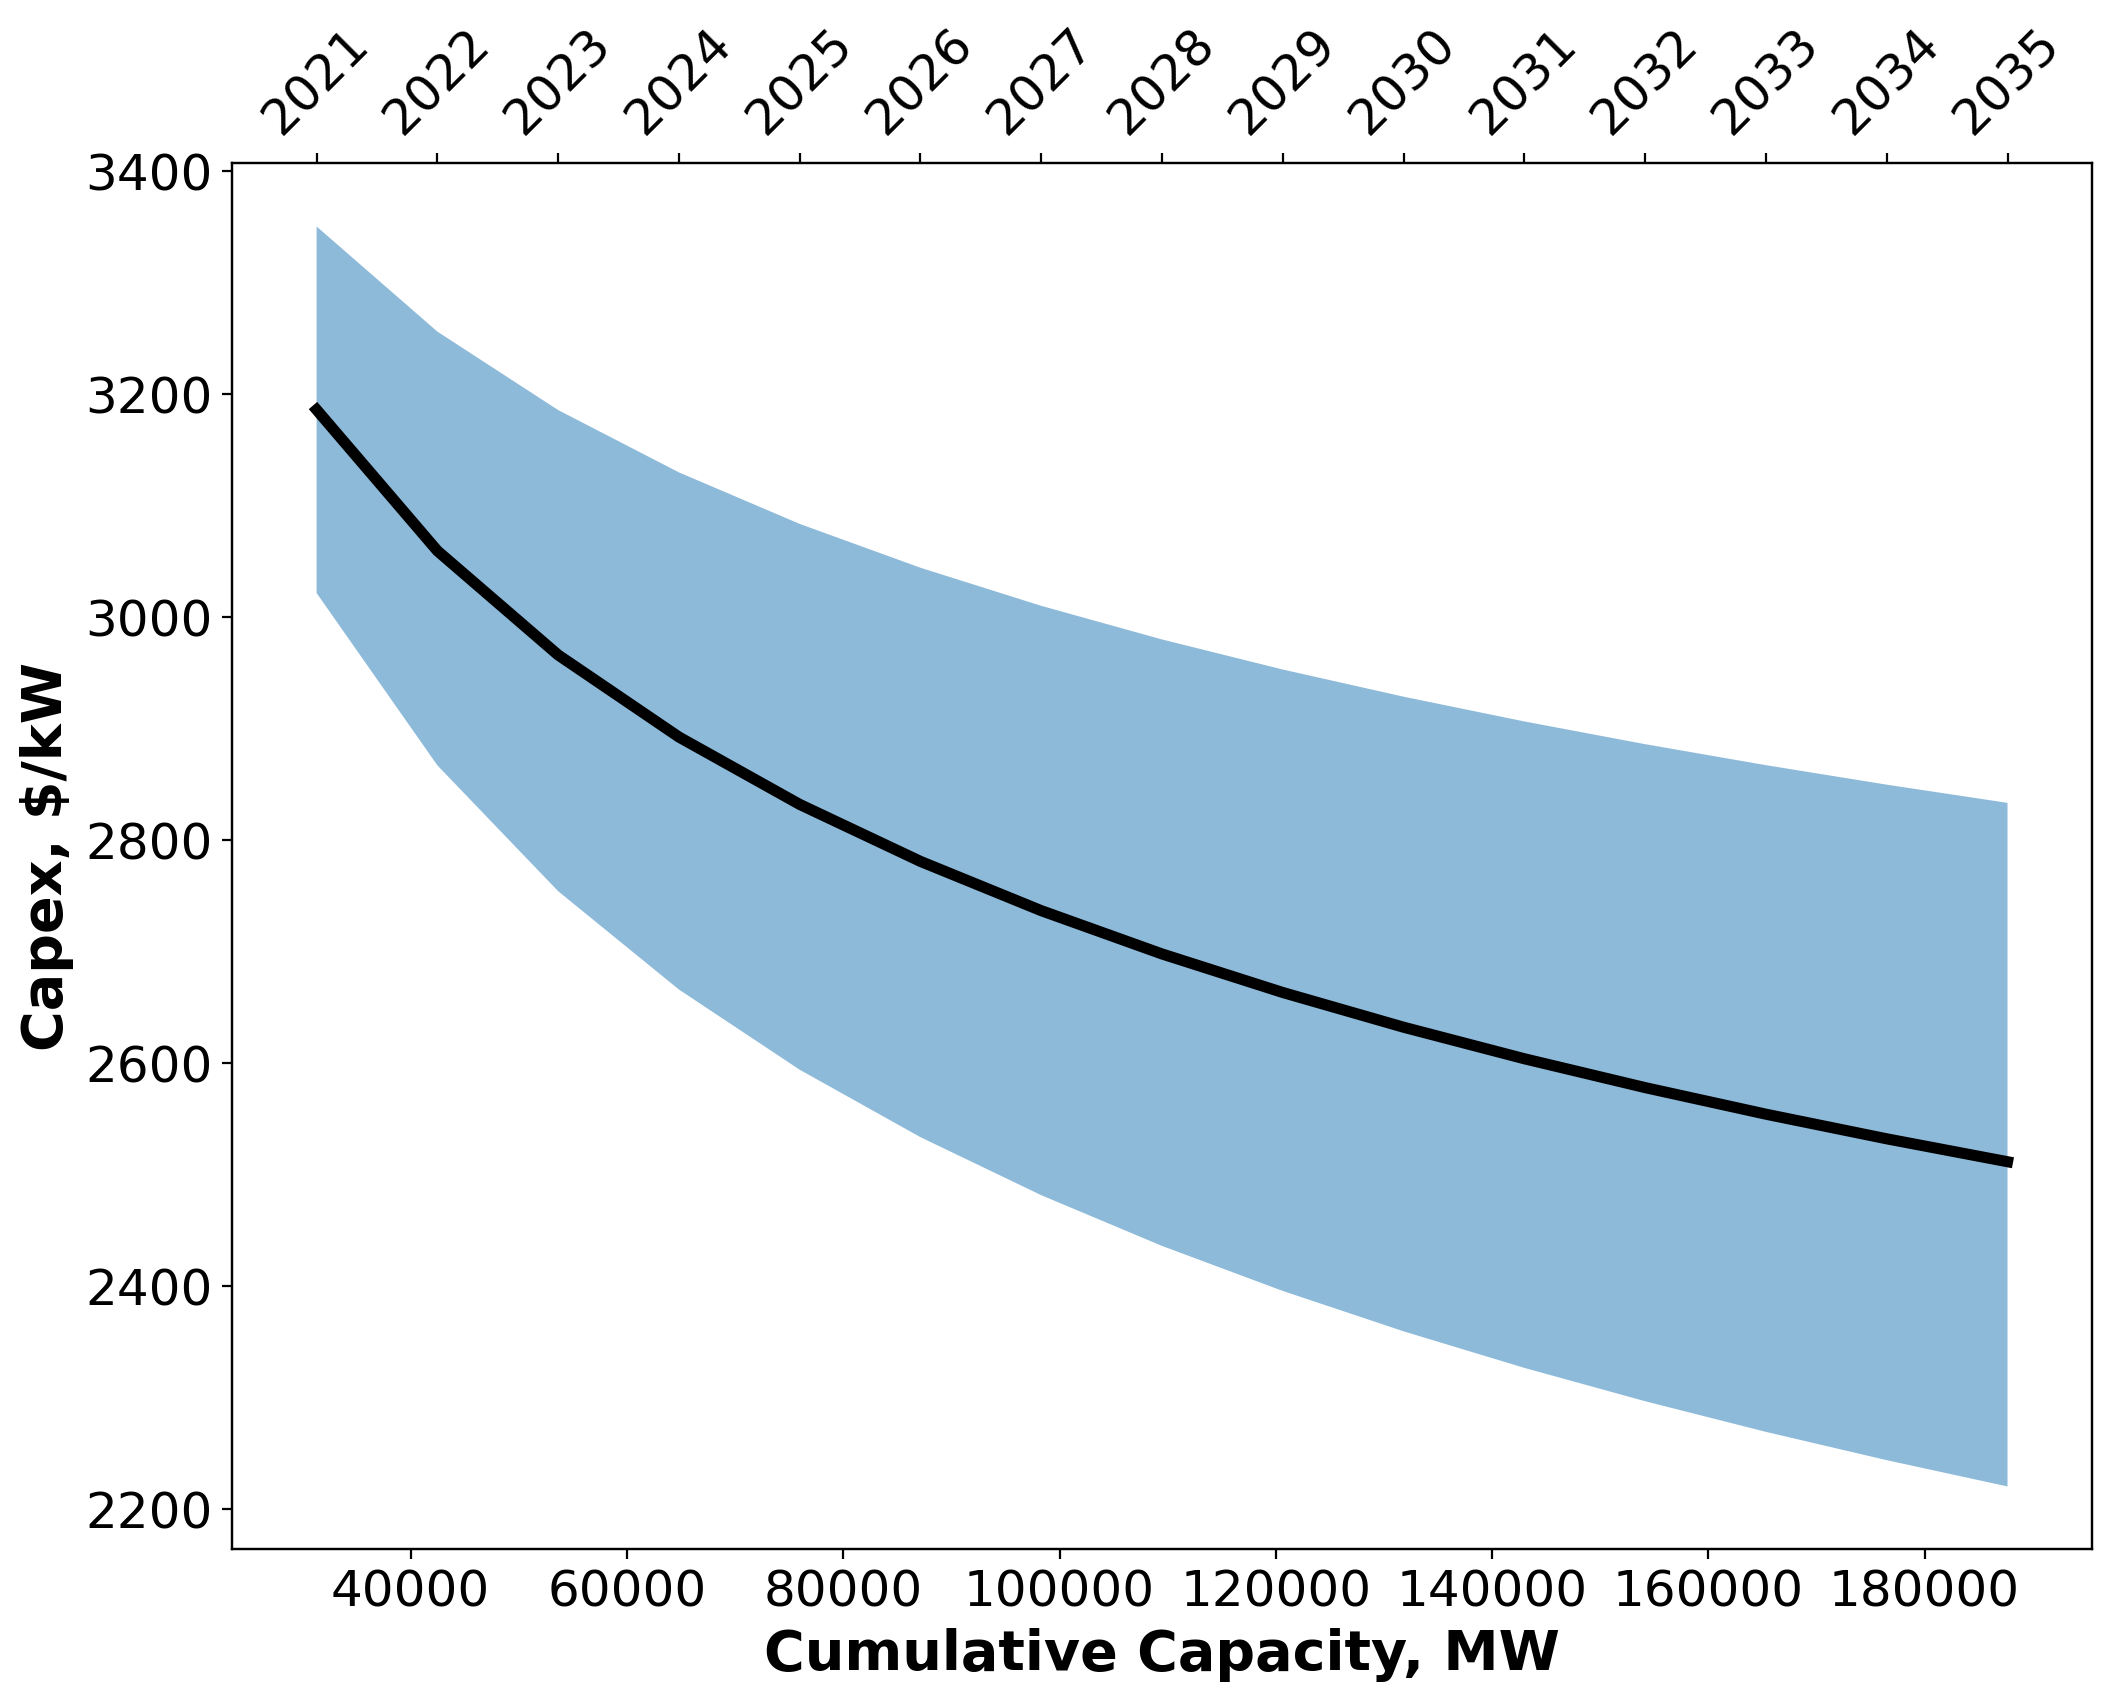
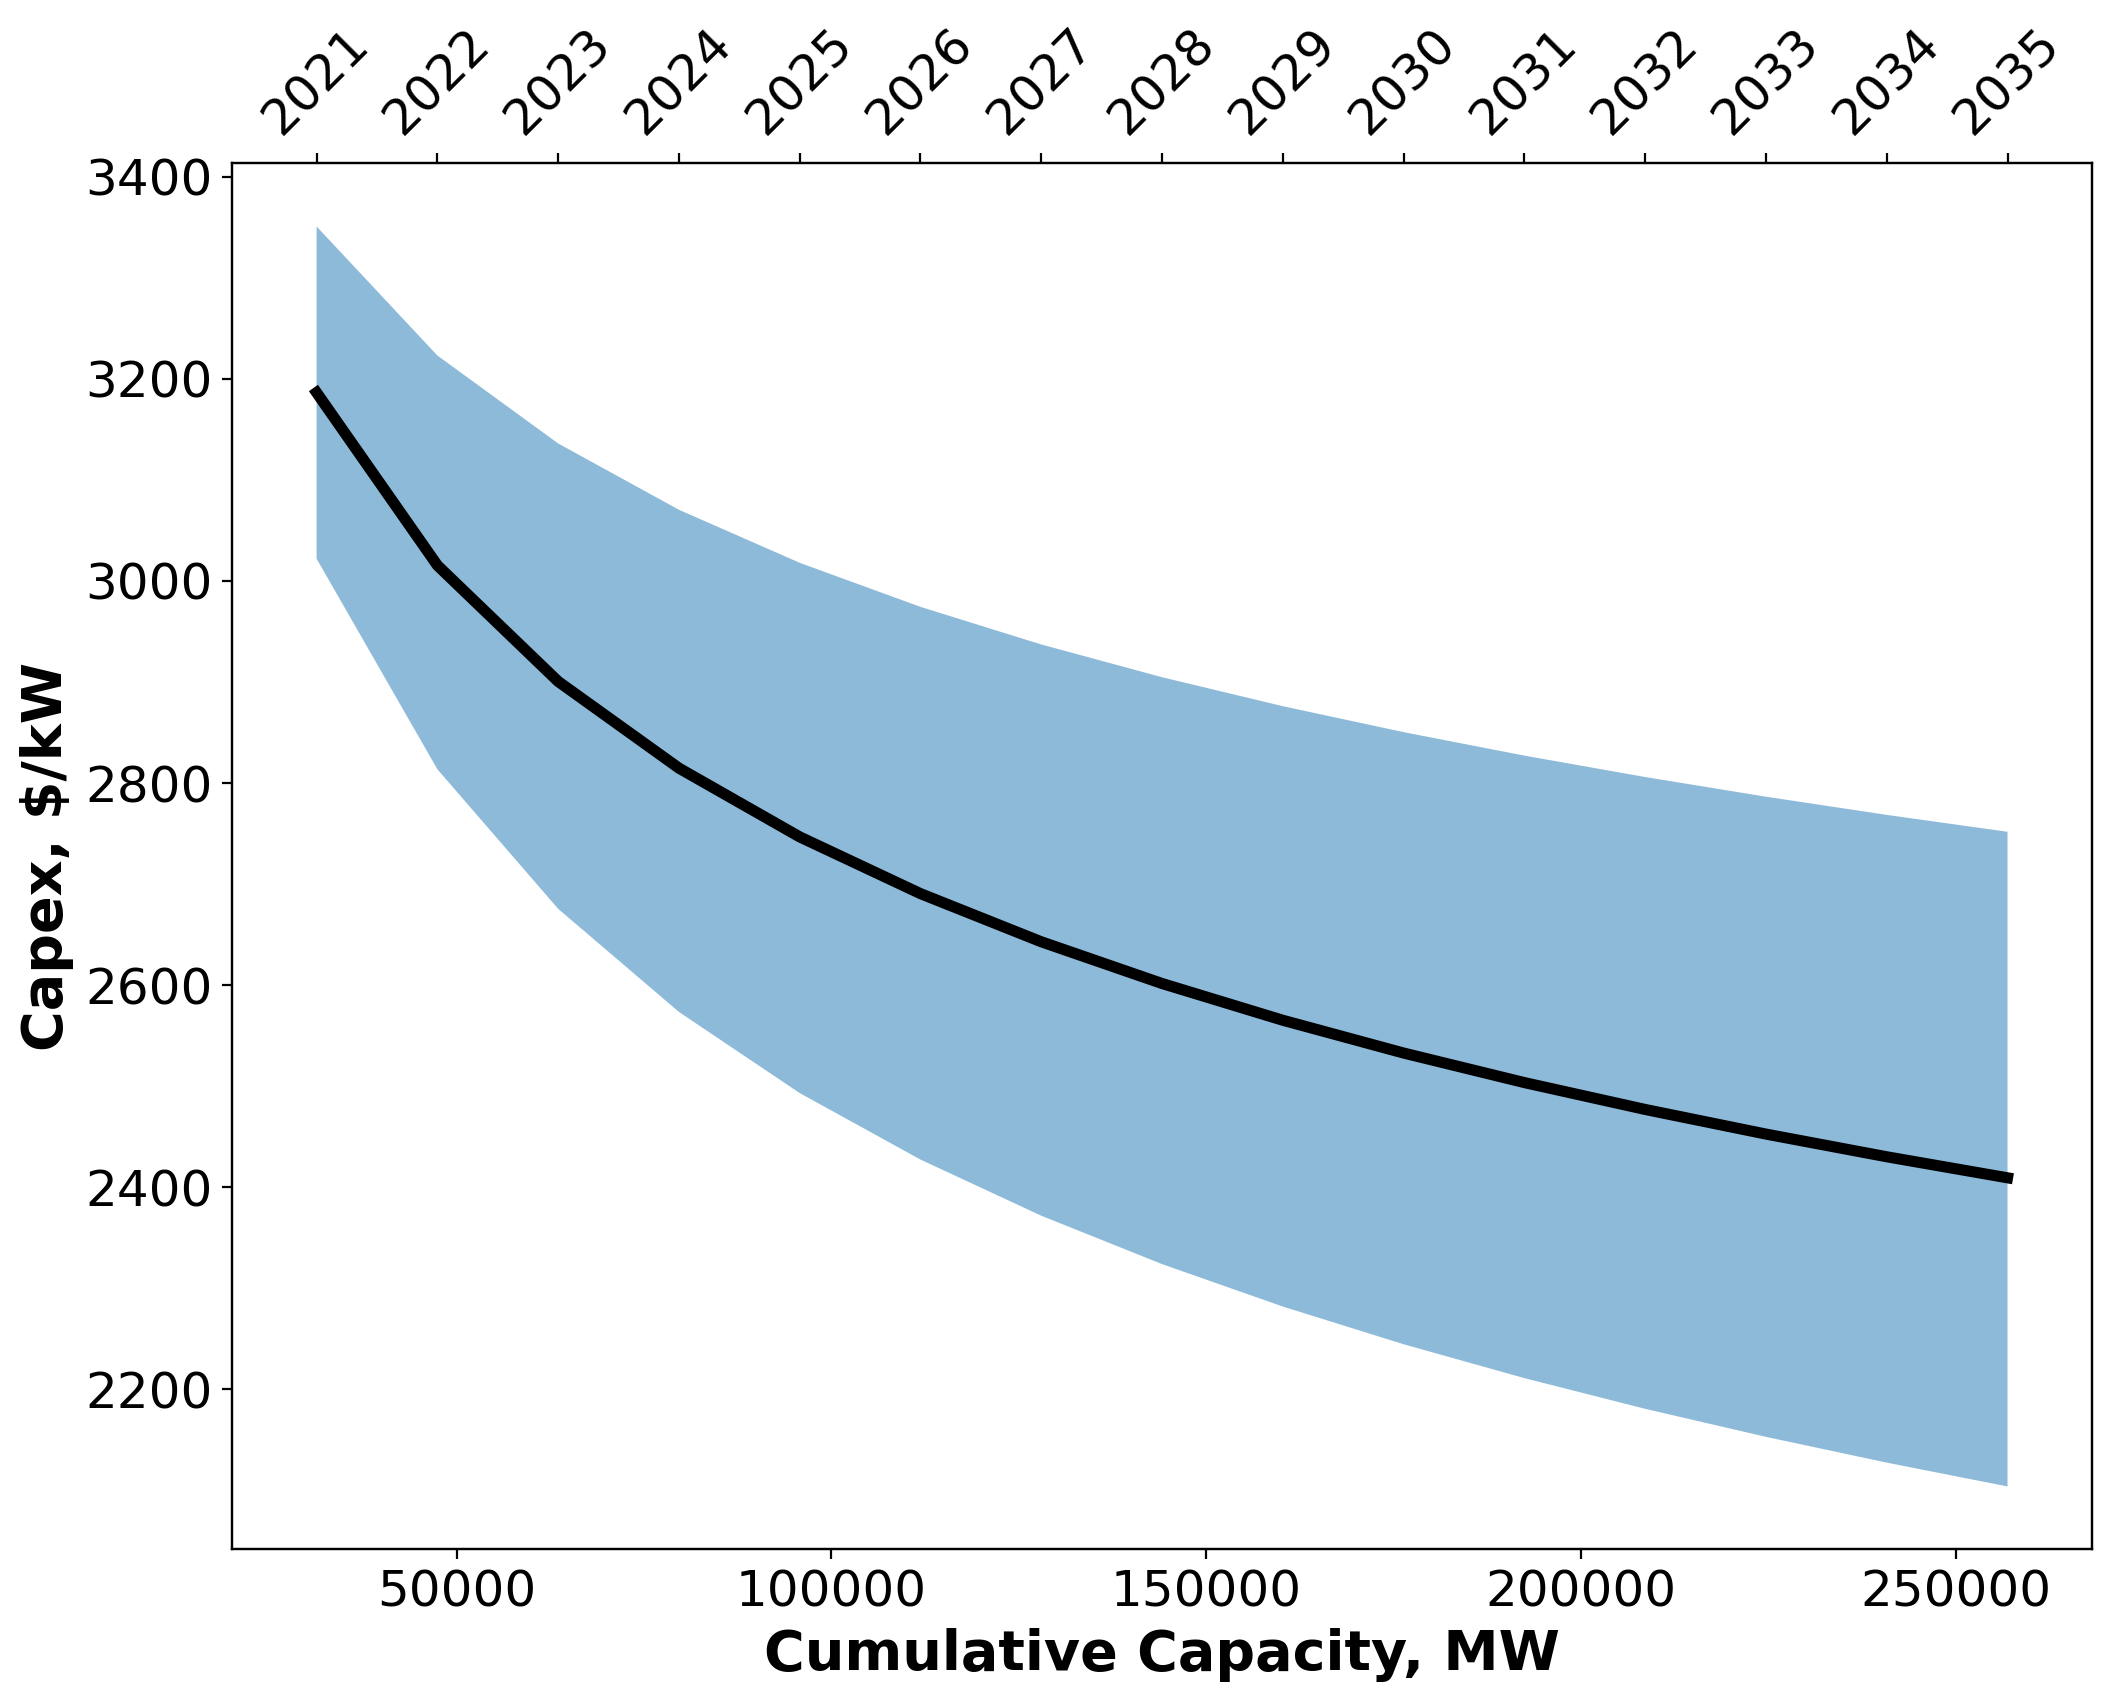
Write out percent cost reductions to CSV

diff --git a/analysis/orbit_comparison.py b/analysis/orbit_comparison.py
@@ -386,9 +386,20 @@ def regression_and_plot(FORECAST, PROJECTS, FILTERS, TO_AGGREGATE, TO_DROP, PRED
     # print('Avg', avg_lcoe)
     # print('Max cons', max_lcoe_conservative)
     # print('Min agg', min_lcoe_aggressive)
+
+    ### Write data
+    pd.DataFrame({
+        'Year': years,
+        'Capex': avg_capex,
+        'Capex percent reductions': 1 - avg_capex / avg_capex[0],
+        'LCOE': avg_lcoe,
+        'LCOE percent reductions': 1 - avg_lcoe/ avg_lcoe[0]
+    }).to_csv('results/' + fixfloat + '_data_out.csv')
+
+
     ### Plotting
     # Forecast
-    fname_capex = 'results/' + fixfloat + '_capex_forecast.png'
+    fname_capex = 'results/' + fixfloat + '_capex_forecast_low_deploy.png'
     fig_capex, ax_capex = plot_forecast(
         upcoming_capacity,
         avg_capex,
@@ -399,7 +410,7 @@ def regression_and_plot(FORECAST, PROJECTS, FILTERS, TO_AGGREGATE, TO_DROP, PRED
         fname=fname_capex
     )
 
-    fname_lcoe = 'results/' + fixfloat + '_lcoe_forecast.png'
+    fname_lcoe = 'results/' + fixfloat + '_lcoe_forecast_low_deploy.png'
     plot_forecast(
         upcoming_capacity,
         avg_lcoe,
@@ -415,7 +426,7 @@ def regression_and_plot(FORECAST, PROJECTS, FILTERS, TO_AGGREGATE, TO_DROP, PRED
     scatter_plot(res_x, res_y, 'Fitted values (log of CapEx)', 'Residuals', fname=fname_residuals)
 
     # Sensitivities
-    fname_uncert = 'results/' + fixfloat + '_capex_forecast_uncertainty.png'
+    fname_uncert = 'results/' + fixfloat + '_capex_forecast_low_deploy_uncertainty.png'
     plot_forecast_comp(
         fig_capex,
         ax_capex,
